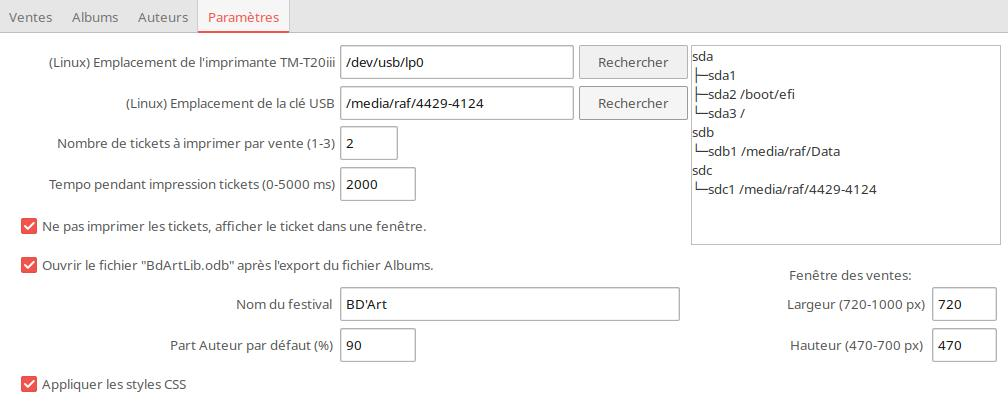
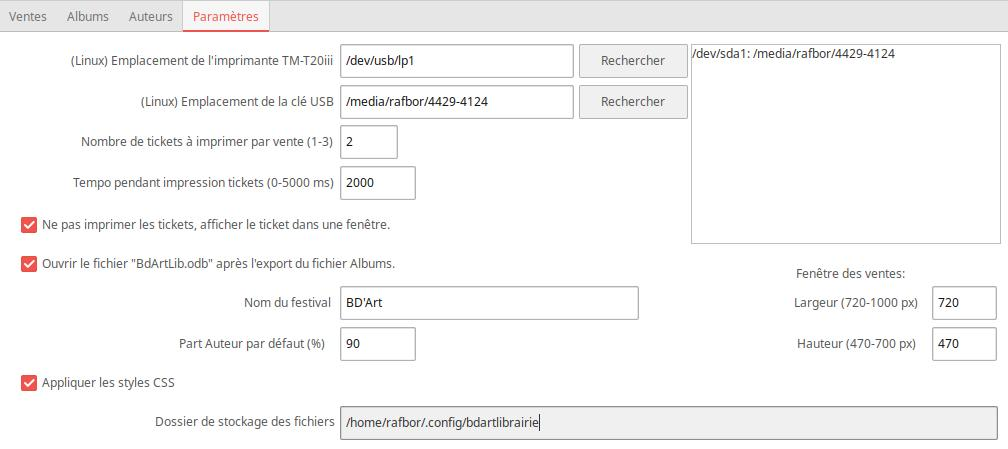
v3.1.0515.0

diff --git a/MainWindow.cs b/MainWindow.cs
@@ -110,6 +110,7 @@ namespace BdArtLibrairie
         [UI] private Entry txtPartAuteurDefaut = null;
         [UI] private Entry txtVenteBoxWidth = null;
         [UI] private Entry txtVenteBoxHeight = null;
+        [UI] private Entry txtDossierFichiers = null;
         //
         [UI] private TreeView trvVentes = null;
         [UI] private TreeView trvAlbums = null;
@@ -329,6 +330,7 @@ namespace BdArtLibrairie
             txtTotalMediatheques.StyleContext.AddProvider(Global.ProviderCss, Gtk.StyleProviderPriority.User);
             txtTotalVentes.StyleContext.AddProvider(Global.ProviderCss, Gtk.StyleProviderPriority.User);
             txtPathResult.StyleContext.AddProvider(Global.ProviderCss, Gtk.StyleProviderPriority.User);
+            txtDossierFichiers.StyleContext.AddProvider(Global.ProviderCss, Gtk.StyleProviderPriority.User);
             // champs éditables
             txtPrinterFilePath.StyleContext.AddProvider(Global.ProviderCss, Gtk.StyleProviderPriority.User);
             txtUsbDevicePath.StyleContext.AddProvider(Global.ProviderCss, Gtk.StyleProviderPriority.User);
@@ -363,6 +365,7 @@ namespace BdArtLibrairie
             txtTotalMediatheques.StyleContext.AddClass(Global.eCssClasses.EntryNotEditable.ToString());
             txtTotalVentes.StyleContext.AddClass(Global.eCssClasses.EntryNotEditable.ToString());
             txtPathResult.StyleContext.AddClass(Global.eCssClasses.EntryNotEditable.ToString());
+            txtDossierFichiers.StyleContext.AddClass(Global.eCssClasses.EntryNotEditable.ToString());
             // champs éditables
             txtPrinterFilePath.StyleContext.AddClass(Global.eCssClasses.EntryEditable.ToString());
             txtUsbDevicePath.StyleContext.AddClass(Global.eCssClasses.EntryEditable.ToString());
@@ -404,6 +407,7 @@ namespace BdArtLibrairie
             txtTotalMediatheques.StyleContext.RemoveClass(Global.eCssClasses.EntryNotEditable.ToString());
             txtTotalVentes.StyleContext.RemoveClass(Global.eCssClasses.EntryNotEditable.ToString());
             txtPathResult.StyleContext.RemoveClass(Global.eCssClasses.EntryNotEditable.ToString());
+            txtDossierFichiers.StyleContext.RemoveClass(Global.eCssClasses.EntryNotEditable.ToString());
             // champs éditables
             txtPrinterFilePath.StyleContext.RemoveClass(Global.eCssClasses.EntryEditable.ToString());
             txtUsbDevicePath.StyleContext.RemoveClass(Global.eCssClasses.EntryEditable.ToString());
@@ -806,6 +810,7 @@ namespace BdArtLibrairie
             txtPartAuteurDefaut.Text = Global.PartAuteurDefaut.ToString();
             txtVenteBoxWidth.Text = Global.VenteBoxWidth.ToString();
             txtVenteBoxHeight.Text = Global.VenteBoxHeight.ToString();
+            txtDossierFichiers.Text = Global.DossierFichiers;
         }
 
         // Calculs.

diff --git a/Global.cs b/Global.cs
@@ -128,7 +128,6 @@ namespace BdArtLibrairie
 		private static string strFichierAuteursWoExt;
 		private static string strDossierFichiers;
 		private static string strDossierSauve;
-        private static string strAppStartupPath;
 		private static string strPrinterFilePath;
 		private static string strUsbDevicePath;
 		private static string strNomFestival;
@@ -148,7 +147,6 @@ namespace BdArtLibrairie
         public static string FichierAlbums { get => strFichierAlbums; set => strFichierAlbums = value; }
         public static string FichierVentes { get => strFichierVentes; set => strFichierVentes = value; }
 		public static string FichierPaiements { get => strFichierPaiements; set => strFichierPaiements = value; }
-        public static string AppStartupPath { get => strAppStartupPath; set => strAppStartupPath = value; }
         public static string FichierAuteurs { get => strFichierAuteurs; set => strFichierAuteurs = value; }
         public static string DossierFichiers { get => strDossierFichiers; set => strDossierFichiers = value; }
         public static string FichierVentesWoExt { get => strFichierVentesWoExt; set => strFichierVentesWoExt = value; }
@@ -204,9 +202,9 @@ namespace BdArtLibrairie
 			PrinterFilePath = "/dev/usb/lp0";
 			Tempo = 2000;
 			NombreTickets = 2;
-			AppliquerCss = false;
+			AppliquerCss = true;
 			UseDialogForTicketPrint = true;
-			UsbDevicePath = "/media/raf/4429-4124";
+			UsbDevicePath = "/media/rafbor/4429-4124";
 			FichierConfigLocal = "app.config";
 			NomFestival = "BD'Art";
 			LaunchBaseFile = true;
@@ -214,9 +212,10 @@ namespace BdArtLibrairie
 			VenteBoxWidth = 720;
 			VenteBoxHeight = 470;
 			//
-			AppStartupPath = Path.GetDirectoryName(System.Reflection.Assembly.GetExecutingAssembly().Location);
-			//DossierFichiers = AppStartupPath + Path.DirectorySeparatorChar + "Fichiers";
-			DossierFichiers = Path.Combine(Environment.GetFolderPath(Environment.SpecialFolder.UserProfile), ".bdartlibrairie");
+			DossierFichiers = Path.Combine(Environment.GetFolderPath(Environment.SpecialFolder.ApplicationData), "bdartlibrairie");
+			// version Snap
+			if (Environment.GetEnvironmentVariable("BDARTLIBRAIRIE_BASE") != null)
+				DossierFichiers = Path.Combine(Environment.GetEnvironmentVariable("BDARTLIBRAIRIE_BASE"), "bdartlibrairie");
 			// création du dossier Fichiers, si pas présent
 			if (!Directory.Exists(DossierFichiers))
 				Directory.CreateDirectory(DossierFichiers);

diff --git a/README.md b/README.md
@@ -21,7 +21,7 @@
   - [Développement et installation](#développement-et-installation)
   - [Notes de version](#notes-de-version)
   - [Téléchargements](#téléchargements)
-    - [Installation sur Linux](#installation-sur-linux)
+  - [Installation sur Linux](#installation-sur-linux)
 
 # BdArtLibrairie
 
@@ -32,7 +32,7 @@
 Cette application a été créée pour gérer les ventes de la librairie tenue par des bénévoles lors du festival de bandes dessinées BD’Art de Rive de Gier (42800). Elle permet de réaliser les ventes en scannant les code-barres des albums, d'éditer des tickets de paiements, et de calculer les sommes à reverser aux auteurs en fin de festival.
 
 Elle est composée de 4 onglets: _Ventes, Albums, Auteurs, Paramètres_.
-Les données sont stockées dans 4 fichiers au format _csv_, séparateur _;_ (_Auteurs.csv_, _Albums.csv_, _Ventes.csv_ et _Paiements.csv_). Les fichiers sont stockés dans le dossier utilisateur, dans un dossier caché _.bdartlibrairie_.
+Les données sont stockées dans 4 fichiers au format _csv_, séparateur _;_ (_Auteurs.csv_, _Albums.csv_, _Ventes.csv_ et _Paiements.csv_). Les fichiers sont stockés dans le dossier utilisateur, dans un dossier nommé _bdartlibrairie_ (cf. [onglet Paramètres](#onglet-paramètres))
 
 ## Principe de fonctionnement
 
@@ -53,7 +53,7 @@ puis l'onglet _Albums_:
 - Si le fichier est ouvert dans **Google Sheet**, il faut l’exporter au format **Excel** ou **OpenDocument** (menu _Fichier → Télécharger_),
 - Ouvrir le fichier dans **Excel** ou **LibreOffice Calc** puis exporter chacun des onglets dans un fichier _csv_ séparateur _;_ (dans **LibreOffice Calc**, faire pour chaque onglet : _Enregistrer sous_, choisir le format _Texte CSV_, puis choisir le séparateur _;_ ).
 
-- Enregistrer les fichiers dans le dossier _.bdartlibrairie_, chaque fichier porte le nom de l'onglet: _Auteurs.csv_, _Albums.csv_.
+- Enregistrer les fichiers dans le dossier _bdartlibrairie_, chaque fichier porte le nom de l'onglet: _Auteurs.csv_, _Albums.csv_.
 
 - Lancer l’application **BdArtLibrairie** (les fichiers sont chargés automatiquement) puis effectuer les ventes. (cf. § [Onglet Ventes](#onglet-ventes))
 
@@ -125,7 +125,7 @@ En cas de modification du prix de vente, si des ventes ont été enregistrées, 
 
 ![Erreur écart ventes](images/markdown/erreur_ecart_ventes.jpg)
 
-Ce message est enregistré dans le fichier _EcartsVentes.txt_, dans le dossier caché _.BdArtLibrairie_. Un bouton _Erreur écarts ventes_ apparait, permettant de réafficher les messages:
+Ce message est enregistré dans le fichier _EcartsVentes.txt_, dans le dossier _bdartlibrairie_. Un bouton _Erreur écarts ventes_ apparait, permettant de réafficher les messages:
 
 ![Bouton écart ventes](images/markdown/bouton_ecart_ventes.jpg)
 
@@ -235,7 +235,7 @@ Supprimer les fichiers _Ventes.csv_ et _Paiements.csv_ ou effacer les ventes par
 
 Après confirmation, saisir le mot de passe « Password01 » dans la zone sous la grille.
 Si Ok, les fichiers _Ventes.csv_ et _Paiements.csv_ sont réinitialisés et le fichier _EcartsVentes.txt_ est supprimé.
-Par sécurité, une copie de ces fichiers est sauvegardée dans le sous-dossier _Sauve_ du dossier _.bdartlibrairie_ avec un numéro de version. Les fichiers de sauvegarde plus anciens sont conservés.
+Par sécurité, une copie de ces fichiers est sauvegardée dans le sous-dossier _Sauve_ du dossier _bdartlibrairie_ avec un numéro de version. Les fichiers de sauvegarde plus anciens sont conservés.
 
 Vous pouvez également purger, après confirmation, ce dossier de sauvegarde via le menu _Fichier->Purger le dossier backup_
 
@@ -248,7 +248,7 @@ Le menu _Affichage->Bilan des ventes auteur_ ou un clic sur le bouton _Bilan des
 ### Sauvegarde des données
 
 Les ventes sont enregistrées automatiquement. Seuls les fichiers _Ventes.csv_ et _Paiements.csv_ sont mis à jour après chaque vente.
-Si on veut sauvegarder ces fichiers sur un autre support, on peut le faire manuellement via le gestionnaire de fichier, ou alors utiliser le menu _Fichier->Copier les fichiers sur clé_. Cette action va compresser le dossier _.bdartlibrairie_ et le copier sur la clé USB. Voir l’ [onglet Paramètres](#onglet-paramètres) pour configurer le montage de la clé USB.
+Si on veut sauvegarder ces fichiers sur un autre support, on peut le faire manuellement via le gestionnaire de fichier, ou alors utiliser le menu _Fichier->Copier les fichiers sur clé_. Cette action va compresser le dossier _bdartlibrairie_ et le copier sur la clé USB. Voir l’ [onglet Paramètres](#onglet-paramètres) pour configurer le montage de la clé USB.
 
 ### Impression des ventes par auteur
 
@@ -278,7 +278,7 @@ L'import des fichiers est réalisé automatiquement et un message confirme qu'il
 Cet onglet permet de modifier certains paramètres:
 
 - le point de montage sous Linux de l’imprimante thermique: _dev/usb/lp1_ par défaut (cf. § [Développement et installation](#développement-et-installation) pour explications).
-- le point de montage sous Linux de la clé USB: _/media/raf/4429-4124_ par défaut (cf. § [Développement et installation](#développement-et-installation) pour explications).
+- le point de montage sous Linux de la clé USB: _/media/rafbor/4429-4124_ par défaut (cf. § [Développement et installation](#développement-et-installation) pour explications).
 - le nombre de tickets à imprimer : 1 à 3 (défaut : 2).
 - la temporisation pendant l’impression : 0 à 5000 ms (défaut : 2000). Ce paramètre suspend le thread courant de l’application pendant l’impression des tickets. Une valeur trop petite entraînera l’arrêt de l’impression en cours avant qu’elle soit terminée.
 - l’utilisation ou pas de l’imprimante à tickets. Si coché, le ticket sera affiché dans une fenêtre et ne sera pas imprimé.
@@ -288,7 +288,7 @@ Cet onglet permet de modifier certains paramètres:
 - l'application des styles CSS pour colorier les Widgets d'affichage et de saisie de texte. Décocher si les couleurs ne sont pas compatibles avec le thème utilisé.
 - les dimensions en pixel de la fenêtre des ventes (720x470 mini - 1000x700 maxi).
 
-Ces paramètres sont prédéfinis dans le fichier de configuration de l'application _app.config_ qui est stocké dans le dossier caché _.bdartlibrairie_ du dossier utilisateur. Ils sont mis à jour à la fermeture de l'application.
+Ces paramètres sont prédéfinis dans le fichier de configuration de l'application _app.config_ qui est stocké dans le dossier _bdartlibrairie_ du dossier utilisateur. Ils sont mis à jour à la fermeture de l'application.
 
 ```text
 <userSettings>
@@ -303,6 +303,10 @@ Ces paramètres sont prédéfinis dans le fichier de configuration de l'applicat
     <PartAuteurDefaut value="90" />
   </userSettings>
 ```
+
+L'onglet affiche aussi le chemin vers le dossier _bdartlibrairie_ ou sont stockés les fichiers. Le chemin est différent selon le format de l'application installée (ce paramètre n'est pas modifiable): 
+- Format _AppImage_: $HOME/.config/bdartlibrairie
+- Format _Snap_: $HOME/snap/bdartlibrairie/common/bdartlibrairie
 
 ## Structure des données
 
@@ -357,12 +361,12 @@ L’application est développée en C# avec _Visual Studio Code_ sur PC Ubuntu, 
 _Gtk3_ est installé par défaut sur les systèmes Linux Ubuntu et Xubuntu.
 Pour utilisation sur système Windows, il faut installer _Gtk3_.
 
-La publication pour Linux de l’application dans _Visual Studio Code_ se fait au format _AppImage_, en lançant le script _publish-appimage_ (cf [Publish-AppImage](https://github.com/kuiperzone/Publish-AppImage) pour explications sur la configuration et l'utilisation). Le fichier AppImage généré intègre le _Runtime .NET 8_ et se trouve dans le dossier _AppImages_.
+La publication pour Linux de l’application dans _Visual Studio Code_ se fait au format _AppImage_, en lançant le script _publish-appimage_ (cf [Publish-AppImage](https://github.com/kuiperzone/Publish-AppImage) pour explications sur la configuration et l'utilisation). Le fichier _AppImage_ généré intègre le _Runtime .NET 8_ et se trouve dans le dossier _AppImages_.
 
 Consulter la [documentation Microsoft](https://learn.microsoft.com/fr-fr/dotnet/core/deploying/) pour plus d'explications sur le déploiement d'applications _.NET_.
 
 Les données sont stockées dans les fichiers _csv_ décrits au § [Présentation](#présentation), l’application n’utilise pas de  base de données pour stocker les données, seulement **LibreOffice Base** pour générer les rapports de ventes par auteurs.
-Le fichier base _BdArtLib.odb_ doit être présent dans le dossier caché _.bdartlibrairie_, s'il n'est pas présent au lancement de l'application, l'application tente de le télécharger depuis le dépôt Github.
+Le fichier base _BdArtLib.odb_ doit être présent dans le dossier _bdartlibrairie_, s'il n'est pas présent au lancement de l'application, l'application tente de le télécharger depuis le dépôt Github.
 
 Pour l’impression des tickets de caisse, on utilise le protocole ESC/POS développé par Epson. L’imprimante thermique TM-T20III est donc parfaitement adaptée.
 L’application utilise le package [ESC-POS_NET](https://github.com/lukevp/ESC-POS-.NET) pour imprimer.
@@ -389,13 +393,19 @@ Cf. [Mike's Software Blog](https://mike42.me/blog/2015-03-getting-a-usb-receipt-
 
 Sur Windows, cf. les explications du fichier _readme_ du dépot [ESC-POS_NET](https://github.com/lukevp/ESC-POS-.NET), il faut installer un port COM virtuel, et mapper l’imprimante sur ce port, ou alors utiliser un câble USB-Serie en utilisant le port série de l’imprimante.
 
-Pour l'accès à la clé USB sur Linux, on utilise la commande _lsblk_ pour détecter le point de montage. Cliquer sur le bouton _Rechercher_ pour lancer la recherche.</br>
+Pour l'accès à la clé USB sur Linux, on recherche dans le fichier _/proc/mounts_ les lignes commençants par "dev/sd". Cliquer sur le bouton _Rechercher_ pour lancer la recherche.</br>
 Modifier la valeur dans la zone texte correspondante pour mettre à jour le point de montage qui apparait par défaut.
 
 ## Notes de version
 
+- **3.1.0515.0**
+  - Ajout fichiers _.desktop_ et _.png_ dans dossier _snap/gui_ afin que l'installation du _Snap_ crée un lanceur.
+  - Mise à jour du fichier _readme_ pour intégrer la version _Snap_.
+  - Modifié dossier de stockage des fichiers et de la configuration, affichage du chemin dans les paramètres.
+  - Modifications mineures.
+
 - **3.1.0416.0**
-  - Modifications mineures afin de pouvoir générer et faire fonctionner un paquet snap.
+  - Modifications mineures afin de pouvoir générer et faire fonctionner un paquet _Snap_.
 
 - **3.1.0112.0**
   - Ajout possibilité de modifier et stocker les dimensions (en pixels) de la fenêtre des ventes.
@@ -425,7 +435,7 @@ Modifier la valeur dans la zone texte correspondante pour mettre à jour le poin
 - **2.0.0306.0**
   - Au lancement et si non trouvé, le fichier _BdArtLib.odb_ est téléchargé à partir du dépôt Github.
 - **2.0.0304.0**
-  - Publication sous forme d'AppImage.
+  - Publication sous forme d'_AppImage_.
   - Suppression du script _findusb.sh_.
 - **2.0.0210.0**
   - Les données et la config utilisateur ne sont plus stockées dans le dossier de l'application mais dans le dossier utilisateur afin de faciliter l'installation des nouvelles versions.
@@ -442,8 +452,18 @@ Modifier la valeur dans la zone texte correspondante pour mettre à jour le poin
 ## Téléchargements
 
 - **Linux**:
-  - fichier AppImage: voir [Releases](https://github.com/Rafbor42/BdArtLibrairie/releases).
+  - Fichier _AppImage_: voir [Releases](https://github.com/Rafbor42/BdArtLibrairie/releases).
 
-### Installation sur Linux
+## Installation sur Linux
 
-- fichier AppImage: consulter cette [documentation](https://doc.ubuntu-fr.org/appimage) pour savoir comment installer des fichiers AppImage.
+- Format _AppImage_: consulter cette [documentation](https://doc.ubuntu-fr.org/appimage) pour savoir comment installer des fichiers _AppImage_.
+- Format _Snap_: **BdArtLibrairie** peut être installée de différentes manières:
+  - à partir du [Snap Store en ligne](https://snapcraft.io/bdartlibrairie).
+  - à partir de votre gestionnaire de logiciels (Gnome Software, Snap Store, Discover,...).
+  - en ligne de commande:</br>
+  ```sudo snap install bdartlibrairie```
+
+  Après installation du _Snap_, pour autoriser les téléchargements de fichiers, l'accès aux périphériques USB ainsi que l'impression des tickets sur l'imprimante thermique, lancer les commandes suivantes:</br>
+  ```sudo snap connect bdartlibrairie:removable-media```</br>
+  ```sudo snap connect bdartlibrairie:mount-observe```</br>
+  ```sudo snap connect bdartlibrairie:raw-usbv```</br>
